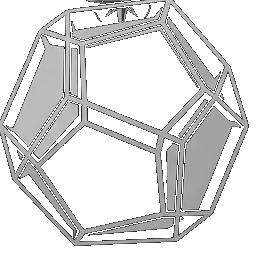
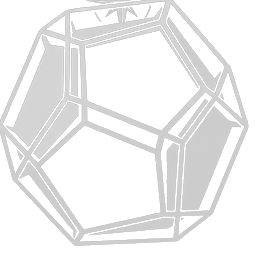
Make the mark square and let it sit on the surface
The full logo was cropped from the top, which cut the sphere's lower tip, so
it never read as a true square. It is now composed onto a square canvas
instead - padded, never cropped - so the compass and the whole sphere are
intact.

Every plate around it is gone: no badge background, no border, no rounded
corners on the sidebar mark, the assistant avatar or the empty state. The
highlights are also capped just under white so the mark belongs to a
near-black surface instead of glaring out of it.

diff --git a/pentagon-frontend/src/App.tsx b/pentagon-frontend/src/App.tsx
@@ -668,7 +668,7 @@ function App() {
       <header className="z-20 flex min-h-[66px] items-center justify-between gap-4 border-b border-white/[0.065] bg-[#000000]/90 px-7 backdrop-blur-xl max-sm:px-4">
         <div className="flex min-w-0 items-center gap-3">
           <div className="flex min-w-0 items-center gap-2 rounded-lg border border-white/[0.07] bg-white/[0.025] px-3 py-2">
-            <Logomark size={13} className="shrink-0 text-emerald-300" />
+            <Logomark size={16} />
             <select aria-label="Choose model" value={selectedModel} disabled={!models.length || switching || streaming} onChange={(event) => void switchModel(event.target.value)} className="max-w-[min(34vw,360px)] min-w-0 appearance-none bg-transparent pr-1 text-[11px] font-medium text-zinc-200 outline-none disabled:text-zinc-500">
               {!models.length && <option value="">No models available</option>}
               {models.map((model) => <option value={model.id} key={model.id} className="bg-[#0f0f0f]">{model.id}{model.supports_vision ? ' · Vision' : ''}</option>)}
@@ -706,7 +706,7 @@ function App() {
             {messages.length ? <div className="space-y-8">
               {messages.map((message, index) => <MessageRow key={message.id} message={message} isStreaming={streaming && index === messages.length - 1} copied={copiedId === message.id} onCopy={() => void copyMessage(message)} />)}
             </div> : <div className="empty-state-enter flex flex-1 flex-col items-center justify-center py-16 text-center">
-              <div className="relative mb-7 grid size-[66px] place-items-center rounded-[22px] border border-emerald-300/10 bg-emerald-300/[0.045] text-emerald-200 shadow-[0_0_70px_rgba(52,211,153,.08)]"><Logomark size={30} /><span className="absolute -right-1 -top-1 size-2 rounded-full bg-emerald-300/70" /></div>
+              <div className="relative mb-7 grid size-[66px] place-items-center"><Logomark size={60} /><span className="absolute -right-1 -top-1 size-2 rounded-full bg-white/70" /></div>
               <p className="mb-3 text-[9px] font-medium uppercase tracking-[.23em] text-emerald-200/70">A focused place to think</p>
               <h1 className="max-w-xl text-balance text-[clamp(30px,4vw,47px)] font-medium leading-[1.12] tracking-[-.045em] text-zinc-100">{active ? 'What should we explore?' : 'A clear space for your next idea.'}</h1>
               <p className="mt-4 max-w-md text-[12px] leading-6 text-zinc-500">Bring a question, a document, or a moment from a video. Pentagon will show the sources and work behind each reply.</p>
@@ -762,7 +762,7 @@ function App() {
 function MessageRow({ message, isStreaming = false, copied = false, onCopy }: { message: ChatMessage; isStreaming?: boolean; copied?: boolean; onCopy?: () => void }) {
   const user = message.role === 'user'
   return <article data-assistant-message={user ? undefined : ''} className={`message-enter group flex w-full gap-3 ${user ? 'justify-end' : 'justify-start'}`}>
-    {!user && <div className="mt-0.5 grid size-7 shrink-0 place-items-center rounded-[10px] border border-emerald-300/12 bg-emerald-300/[0.055] text-emerald-200"><Logomark size={14} /></div>}
+    {!user && <div className="mt-0.5 grid size-7 shrink-0 place-items-center"><Logomark size={20} /></div>}
     <div className={`min-w-0 ${user ? 'max-w-[78%]' : 'w-full max-w-[calc(100%-40px)]'}`}>
       <div className={`mb-2 flex items-center gap-2 text-[10px] ${user ? 'justify-end pr-1 text-zinc-500' : 'text-zinc-500'}`}><span className="font-medium text-zinc-300">{user ? 'You' : 'Pentagon'}</span>{!user && <span className="truncate font-mono text-[9px] text-zinc-700">{message.model_used}</span>}</div>
       {user ? <div className="rounded-2xl rounded-tr-md border border-white/[0.07] bg-[#171717] px-4 py-3 text-[13px] leading-6 text-zinc-100">

diff --git a/pentagon-frontend/src/components/Logomark.tsx b/pentagon-frontend/src/components/Logomark.tsx
@@ -1,7 +1,9 @@
 // Brand mark: a faceted space sphere with a compass star and moon above it.
 // Deliberately not a pentagon - the brief forbids five-sided shapes.
-// Two assets: the full logo reads well from ~24px up, the sphere-only mark
-// stays legible at 12-14px where the compass detail turns to noise.
+// Two square assets: the full logo reads well from ~24px up, the sphere-only
+// mark stays legible at 12-14px where the compass detail turns to noise.
+// No plate, no border, no rounded corners - the mark sits straight on the
+// surface so it belongs to the UI rather than floating in a badge.
 const LOGO_SRC = '/pentagon-logo.png'
 const MARK_SRC = '/pentagon-mark.png'
 
@@ -30,10 +32,10 @@ export function LogomarkBadge({
 }) {
   return (
     <span
-      className={`grid shrink-0 place-items-center overflow-hidden rounded-[12px] border border-white/[0.08] bg-white/[0.03] ${className}`}
+      className={`grid shrink-0 place-items-center ${className}`}
       style={{ width: size, height: size }}
     >
-      <Logomark size={Math.round(size * 0.92)} />
+      <Logomark size={size} className="opacity-90" />
       {label ? <span className="sr-only">{label}</span> : null}
     </span>
   )
